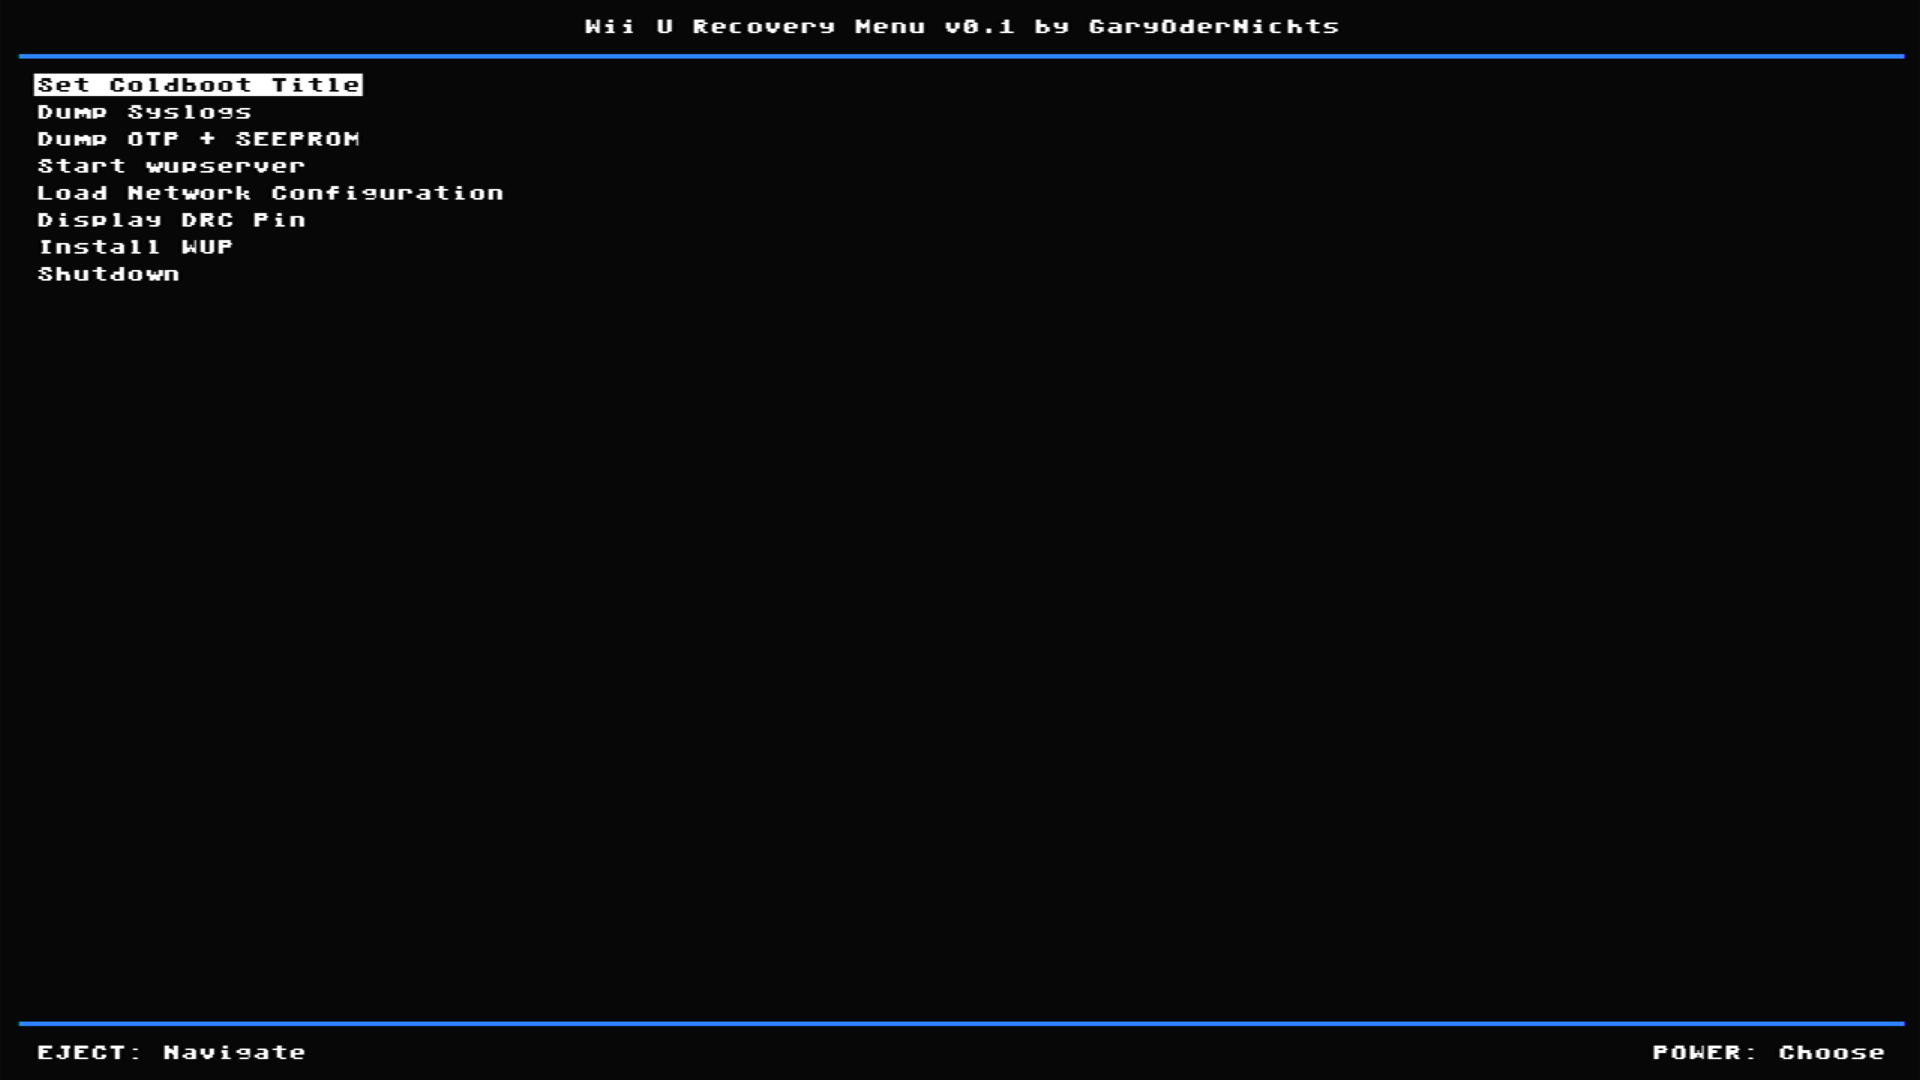
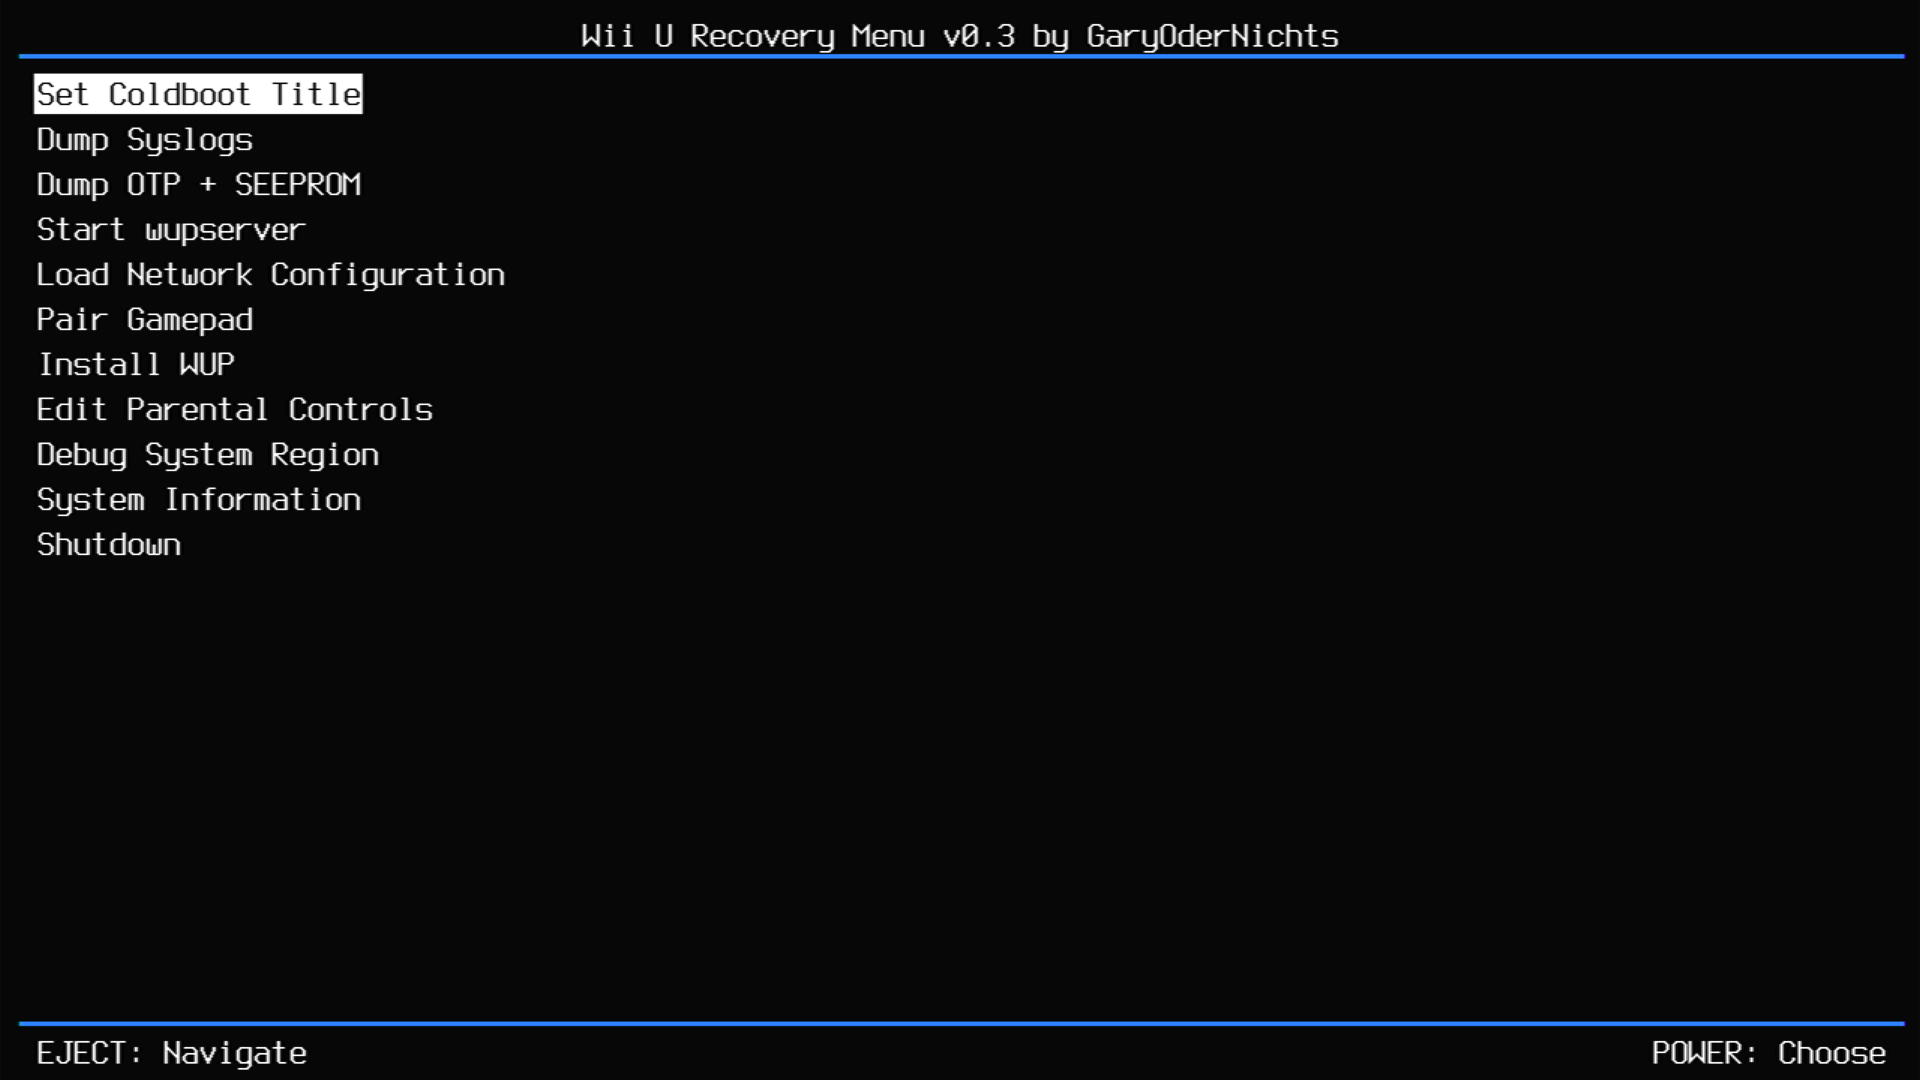
Update version to v0.3

diff --git a/ios_mcp/source/menu.c b/ios_mcp/source/menu.c
@@ -1493,7 +1493,7 @@ int menuThread(void* arg)
 
     int selected = 0;
     while (1) {
-        selected = drawMenu("Wii U Recovery Menu v0.2 by GaryOderNichts",
+        selected = drawMenu("Wii U Recovery Menu v0.3 by GaryOderNichts",
             mainMenuOptions, ARRAY_SIZE(mainMenuOptions), selected,
             0, 16, 16+8+2+8);
         if (selected >= 0 && selected < ARRAY_SIZE(mainMenuOptions)) {

diff --git a/README.md b/README.md
@@ -8,6 +8,11 @@ A simple recovery menu running on the IOSU for unbricking, which can be booted u
 > This build does display controller initialization and might fix the issue.  
 > Note that this build only outputs 480p and has no GamePad output!
 
+> :information_source: The recovery menu updates the power LED for debugging. The following patterns are used:  
+> **purple-off blinking**: kernel code running  
+> **purple-orange blinking**: menu thread running  
+> **purple**: menu is ready and running  
+
 ## Options
 ### Set Coldboot Title
 Allows changing the current title the console boots to.  
@@ -16,6 +21,11 @@ Possible options are:
 - `Wii U Menu (JPN) - 00050010-10040000`
 - `Wii U Menu (USA) - 00050010-10040100`
 - `Wii U Menu (EUR) - 00050010-10040200`
+
+On non-retail systems the following additional options are available:
+- `System Config Tool - 00050010-1F700500`
+- `DEVMENU (pre-2.09) - 00050010-1F7001FF`
+- `Kiosk Menu         - 00050010-1FA81000`
 
 ### Dump Syslogs
 Copies all system logs to a `logs` folder on the root of the SD Card.
@@ -41,9 +51,10 @@ key=wifikeyhere
 key_type=WPA2_PSK_AES
 ```
 
-### Displays DRC Pin
-Displays the Gamepad Pin used for pairing the gamepad.  
-The numeric values represent the following symbols: `♠ = 0, ♥ = 1, ♦ = 2, ♣ = 3`.
+### Pair Gamepad
+Displays the Gamepad Pin and allows pairing a Gamepad to the system. Also bypasses any region checks while pairing.  
+The numeric values represent the following symbols: `♠ = 0, ♥ = 1, ♦ = 2, ♣ = 3`.  
+Note that rebooting the system might be required to use the newly paired gamepad.
 
 ### Install WUP
 Installs a valid signed WUP from the `install` folder on the root of your SD Card.  
@@ -53,10 +64,14 @@ Don't place the WUP into any subfolders.
 Displays the current Parental Controls pin configuration.  
 Allows disabling Parental Controls.
 
-### Fix Region Brick
+### Debug System Region
 Fixes bricks caused by setting productArea and/or gameRegion to an invalid
 value. Symptoms include being unable to launch System Settings or other
 in-region titles.
+
+### System Information
+Displays info about several parts of the system.  
+Including serial number, manufacturing date, console type, regions, memory devices...
 
 ## Building
 ```bash
@@ -76,3 +91,4 @@ docker run -it --rm -v ${PWD}:/project recoverybuilder make DC_INIT=1
 - [@hexkyz](https://github.com/hexkyz) for [hexFW](https://github.com/hexkyz/hexFW)
 - [@rw-r-r-0644](https://github.com/rw-r-r-0644) for the lolserial code and display configuration info
 - [decaf-emu](https://github.com/decaf-emu/decaf-emu) for a lot of IOS documentation
+- [@GerbilSoft](https://github.com/GerbilSoft) for adding the initial "System Information" screen, visual improvements, region unbricking, ...
